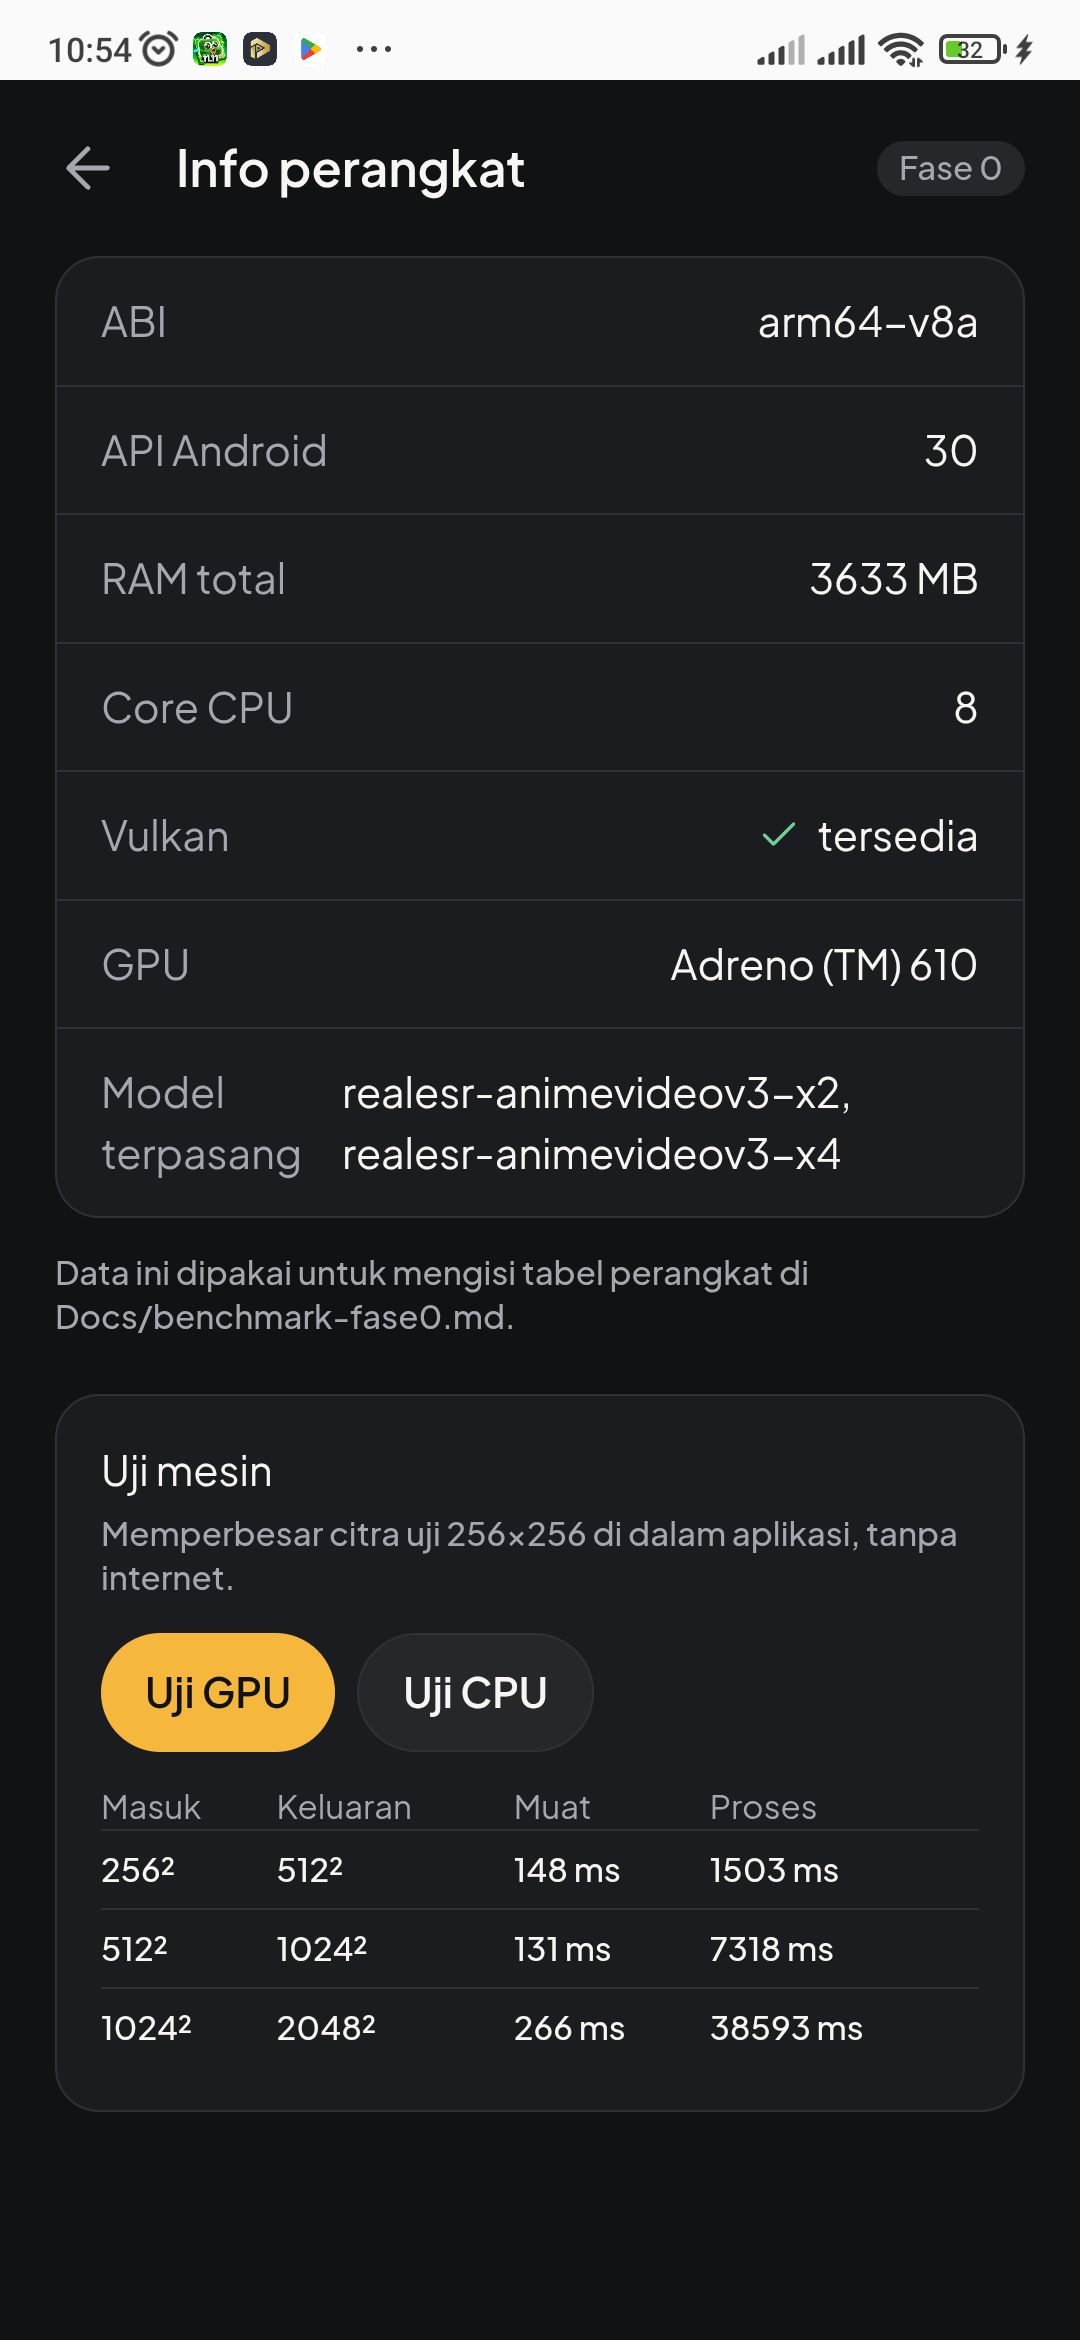
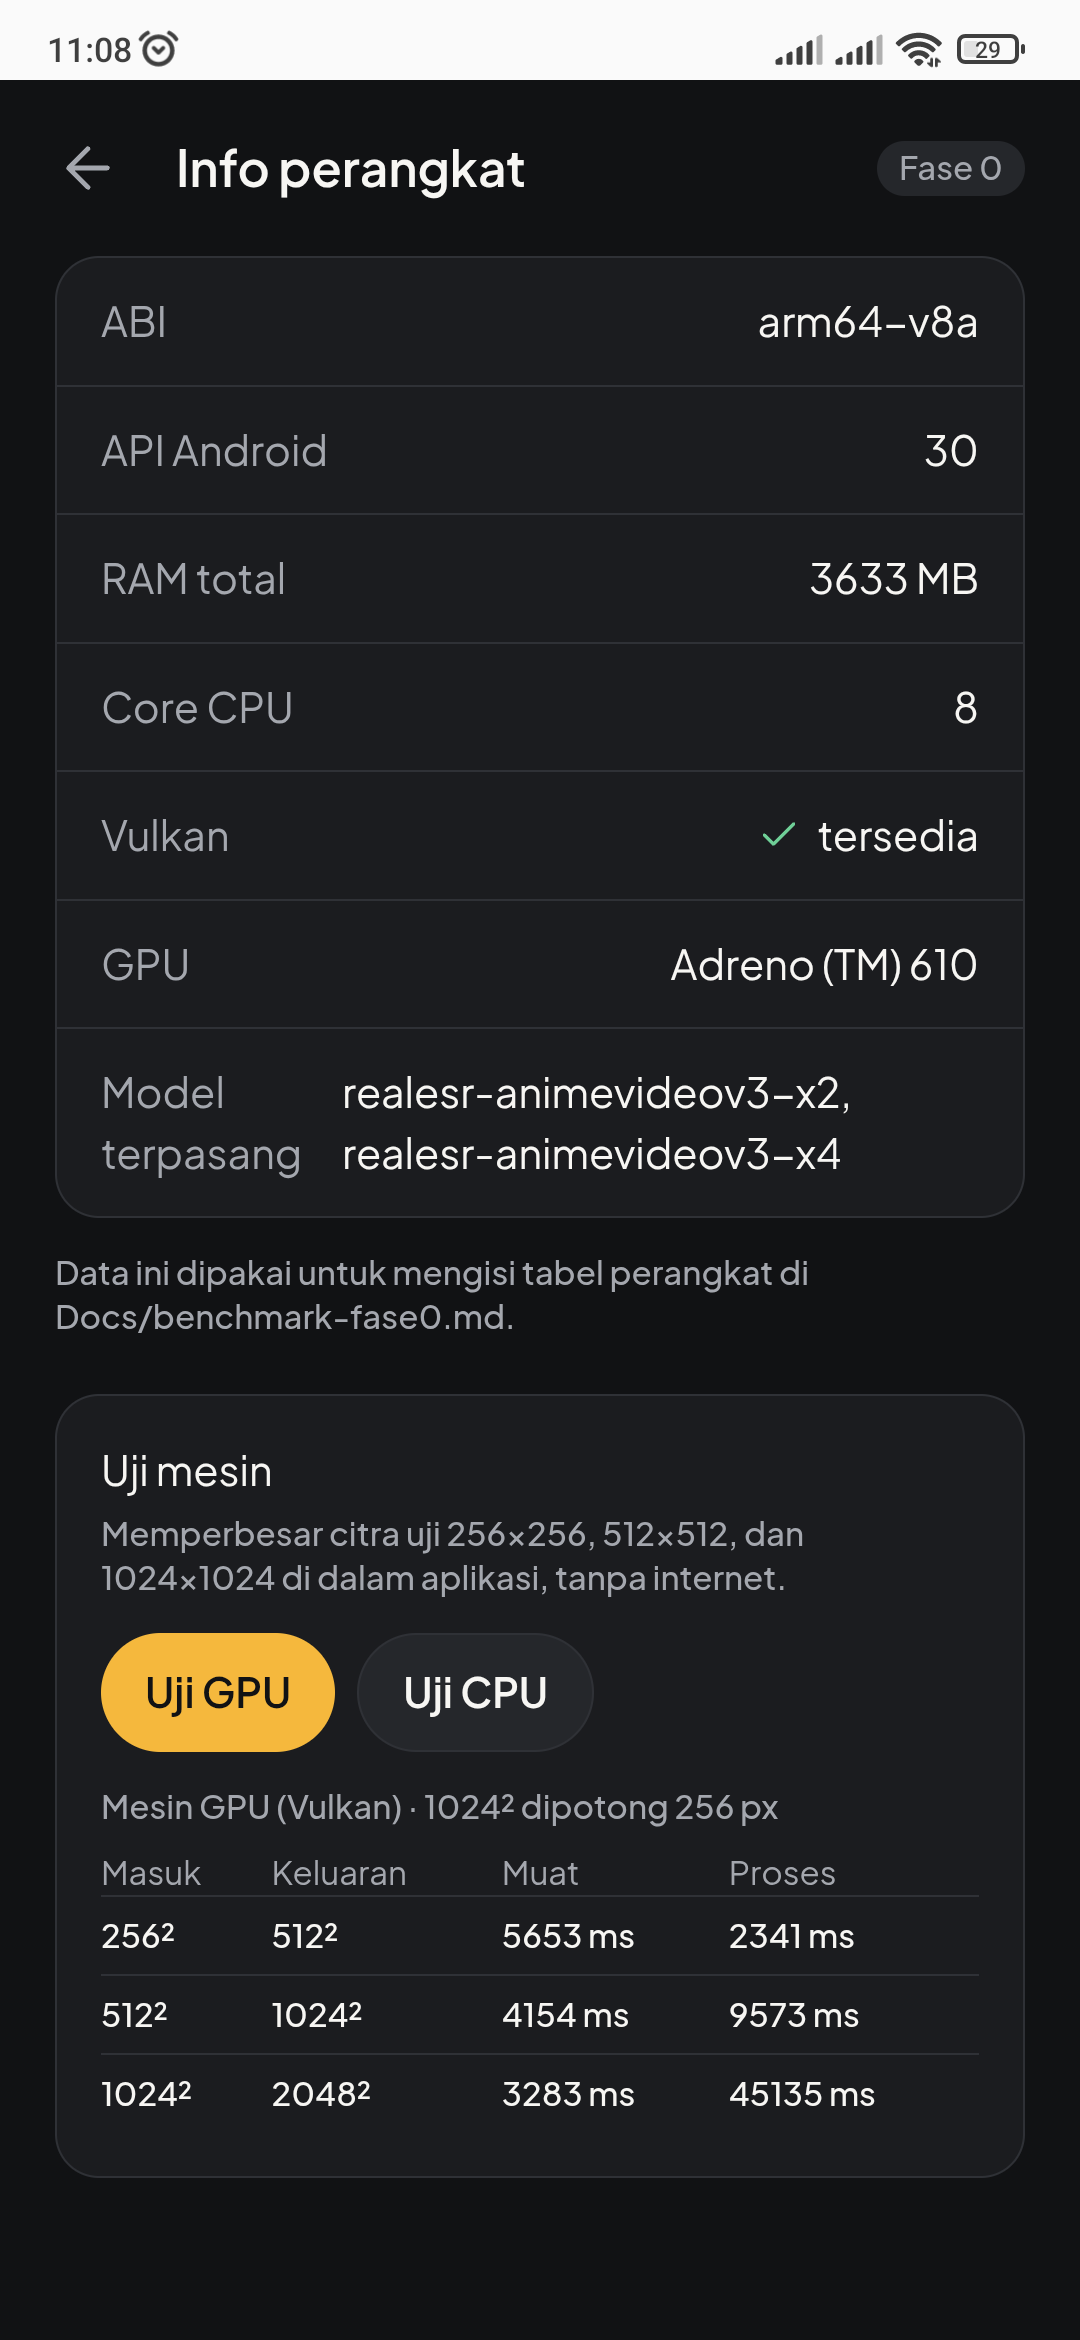
docs: angka benchmark dua kali jalan + label mesin di tabel uji

diff --git a/src/app/uji/page.tsx b/src/app/uji/page.tsx
@@ -139,7 +139,8 @@ export default function HalamanUji() {
           <div className="mt-2 rounded-md border border-border bg-surface p-4">
             <p className="text-body text-text">Uji mesin</p>
             <p className="mt-1 text-caption text-text-2">
-              Memperbesar citra uji 256×256 di dalam aplikasi, tanpa internet.
+              Memperbesar citra uji 256×256, 512×512, dan 1024×1024 di dalam
+              aplikasi, tanpa internet.
             </p>
             <div className="mt-3 flex gap-2">
               <button
@@ -165,7 +166,14 @@ export default function HalamanUji() {
             ) : null}
 
             {tests.length ? (
-              <table className="mt-3 w-full border-collapse">
+              <>
+                <p className="mt-3 text-caption text-text-2">
+                  {tests[0].vulkan ? "Mesin GPU (Vulkan)" : "Mesin CPU"}
+                  {Math.max(...tests.map((t) => t.tile)) > 0
+                    ? ` · 1024² dipotong ${Math.max(...tests.map((t) => t.tile))} px`
+                    : " · satu lintasan"}
+                </p>
+                <table className="mt-2 w-full border-collapse">
                 <thead>
                   <tr className="text-left">
                     <th className="text-caption font-normal text-text-2">Masuk</th>
@@ -188,7 +196,8 @@ export default function HalamanUji() {
                     </tr>
                   ))}
                 </tbody>
-              </table>
+                </table>
+              </>
             ) : null}
           </div>
         ) : null}

diff --git a/Docs/benchmark-fase0.md b/Docs/benchmark-fase0.md
@@ -75,29 +75,33 @@ di halaman *Info perangkat* menjalankan tiga ukuran berturut-turut.
 - Perangkat: Redmi Note 8 (`ginkgo`), Snapdragon 665, Adreno 610, RAM 3.633 MB, Android 11.
 - Model: `realesr-animevideov3-x2` (ncnn, 1,2 MB), keluaran selalu 2x.
 - Thread CPU: 4. Ukuran 1024 memakai potongan `tile = 256`, `pad = 16`.
-- Angka = satu kali jalan (belum dirata-rata 3 kali).
+- Angka = **rentang dari dua kali jalan** (bukan rata-rata 3 kali seperti protokol §4).
+  Selisih antar jalan cukup besar (CPU 1024²: 32,7 vs 38,6 dtk) — HP ini juga dipakai
+  untuk hal lain, jadi suhu dan beban latar memengaruhi.
 
-| Mesin | Masuk | Keluaran | Muat model | Inferensi | Catatan |
+| Mesin | Masuk | Keluaran | Muat model | Inferensi (2× jalan) | Catatan |
 |---|---|---|---|---|---|
-| CPU | 256² | 512² | 148 ms | **1.503 ms** | satu lintasan |
-| CPU | 512² | 1024² | 131 ms | **7.318 ms** | satu lintasan |
-| CPU | 1024² | 2048² | 266 ms | **38.593 ms** | 16 tile |
-| GPU (Vulkan) | 256² | 512² | 4.803 ms | **2.402 ms** | muat termasuk inisialisasi Vulkan |
-| GPU (Vulkan) | 512² | 1024² | 4.523 ms | **9.742 ms** | |
-| GPU (Vulkan) | 1024² | 2048² | 4.933 ms | **45.688 ms** | 16 tile |
+| CPU | 256² | 512² | 131–242 ms | **1,50–1,79 dtk** | satu lintasan |
+| CPU | 512² | 1024² | 142–180 ms | **5,70–7,32 dtk** | satu lintasan |
+| CPU | 1024² | 2048² | 166–266 ms | **32,7–38,6 dtk** | 16 tile |
+| GPU (Vulkan) | 256² | 512² | 4,80–5,65 dtk | **2,34–2,40 dtk** | muat termasuk inisialisasi Vulkan |
+| GPU (Vulkan) | 512² | 1024² | 4,15–4,52 dtk | **9,57–9,74 dtk** | |
+| GPU (Vulkan) | 1024² | 2048² | 3,28–4,93 dtk | **45,1–45,7 dtk** | 16 tile |
 
 **Temuan penting:**
 
-1. **Vulkan lebih lambat daripada CPU di HP ini** pada semua ukuran (2.402 vs 1.503 ms;
-   45.688 vs 38.593 ms). Model ini hanya 41 lapisan dengan tensor kecil, sehingga
+1. **Vulkan lebih lambat daripada CPU di HP ini** pada semua ukuran (2,34 vs 1,50 dtk;
+   45,1 vs 32,7 dtk). Model ini hanya 41 lapisan dengan tensor kecil, sehingga
    biaya *dispatch* per lapisan di Adreno 610 lebih besar daripada keuntungan paralelnya.
-   Inisialisasi Vulkan juga menambah ±4,5 detik pada pemuatan model.
+   Inisialisasi Vulkan juga menambah ±4 detik pada pemuatan model — untuk satu foto,
+   kerugian itu tidak pernah terbayar.
 2. **Satu lintasan 1024² mematikan aplikasi** (proses hilang tanpa log Java — kehabisan
    memori native). Pemotongan tile bukan optimasi, melainkan syarat agar tidak mati.
 3. Hasil CPU dan GPU identik pada piksel contoh (`-16449295, -16744207, -65537`),
    jadi jalur Vulkan secara numerik benar — hanya tidak ekonomis.
-4. Kecepatan ini **jauh dari cukup** untuk foto 12 MP: 1024² saja butuh ±39 detik.
+4. Kecepatan ini **jauh dari cukup** untuk foto 12 MP: 1024² saja butuh ±33 detik.
    Perlu model lebih ringan, resolusi kerja lebih kecil, atau pembatasan sisi panjang.
+5. Tangkapan layar bukti: `assets/screenshots/fase0-uji-mesin.png` (tabel GPU).
 
 ## 6. Hasil: foto #1 (referensi)
 
@@ -168,12 +172,12 @@ Skala: 1 (tidak terlihat peningkatan) sampai 5 (sangat jelas).
 | Tile default (CPU) | 256 | Sama; CPU justru lebih cepat dari GPU. |
 | Batas sisi panjang output (px) | 2048 | Batas tertinggi yang terbukti selesai tanpa dimatikan sistem. |
 | Batas input per skala (px) | 2x: 1024, 3x: belum, 4x: belum | Hanya x2 yang diukur; x4 belum dijalankan di perangkat. |
-| Pemetaan preset Cepat | CPU, 2x, sisi masuk ≤ 512 | 7,3 dtk untuk 512² — masih terasa lama tapi paling dekat ke "cepat". |
-| Pemetaan preset Seimbang | CPU, 2x, sisi masuk ≤ 1024 | 38,6 dtk. |
+| Pemetaan preset Cepat | CPU, 2x, sisi masuk ≤ 512 | 5,7–7,3 dtk untuk 512² — masih terasa lama tapi paling dekat ke "cepat". |
+| Pemetaan preset Seimbang | CPU, 2x, sisi masuk ≤ 1024 | 32,7–38,6 dtk. |
 | Pemetaan preset Maksimal | **belum bisa dipetakan** | Perlu model/resolusi lain; x4 belum diukur dan kemungkinan kehabisan memori. |
-| NFR-P2 (foto 1000×1000, 4x, GPU) | ☑ **Tidak terpenuhi** | Target ≤ 20 dtk. Yang terukur: 1024² **2x** di GPU = 45,7 dtk. 4x akan jauh lebih berat. |
-| NFR-P3 (CPU fallback) | ☑ **Tidak terpenuhi** | Target ≤ 120 dtk untuk 4x; 1024² **2x** di CPU saja 38,6 dtk, dan x4 ≈ 4× beban. |
-| Apakah video layak di HP ini? | ☑ **Tidak** | Satu frame 512² butuh 7,3 dtk CPU. 300 frame (10 dtk @30fps) ≈ 36 menit. |
+| NFR-P2 (foto 1000×1000, 4x, GPU) | ☑ **Tidak terpenuhi** | Target ≤ 20 dtk. Yang terukur: 1024² **2x** di GPU = 45,1–45,7 dtk. 4x akan jauh lebih berat. |
+| NFR-P3 (CPU fallback) | ☑ **Tidak terpenuhi** | Target ≤ 120 dtk untuk 4x; 1024² **2x** di CPU saja 32,7–38,6 dtk, dan x4 ≈ 4× beban. |
+| Apakah video layak di HP ini? | ☑ **Tidak** | Satu frame 512² butuh 5,7–7,3 dtk CPU. 300 frame (10 dtk @30fps) ≈ 29–37 menit. |
 
 ## 12. Kesimpulan dan tindak lanjut
 
@@ -183,7 +187,7 @@ Skala: 1 (tidak terlihat peningkatan) sampai 5 (sangat jelas).
 - **Masalah yang ditemukan:**
   1. Vulkan di Adreno 610 **lebih lambat** daripada CPU 4 thread untuk model sekecil ini.
   2. Tanpa tile, citra 1024² menghabiskan memori dan proses dimatikan sistem.
-  3. Kecepatan absolut terlalu rendah: 38,6 dtk (CPU) untuk 1024²→2048².
+  3. Kecepatan absolut terlalu rendah: 32,7–38,6 dtk (CPU) untuk 1024²→2048².
 - **Perubahan yang harus dibawa ke PRD:**
   - NFR-P2 dan NFR-P3 perlu angka baru yang realistis, atau ruang lingkup foto dibatasi
     (mis. sisi masuk ≤ 768 px) dan janji waktunya diturunkan.
